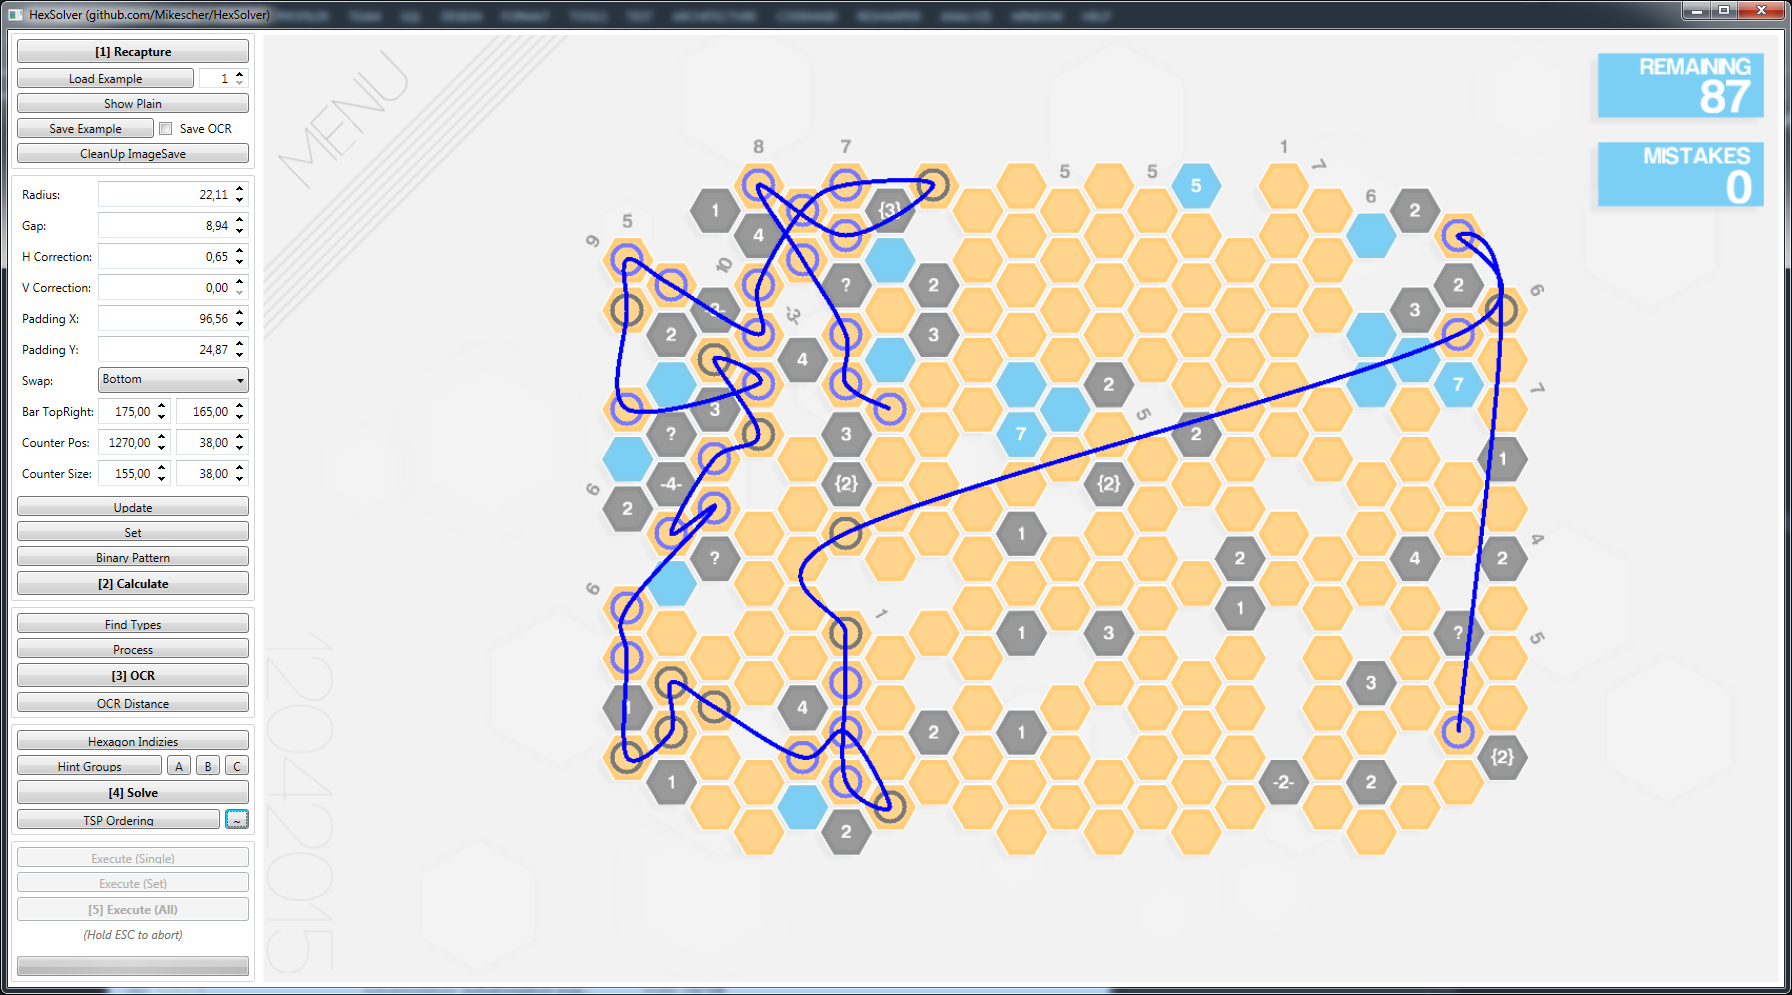
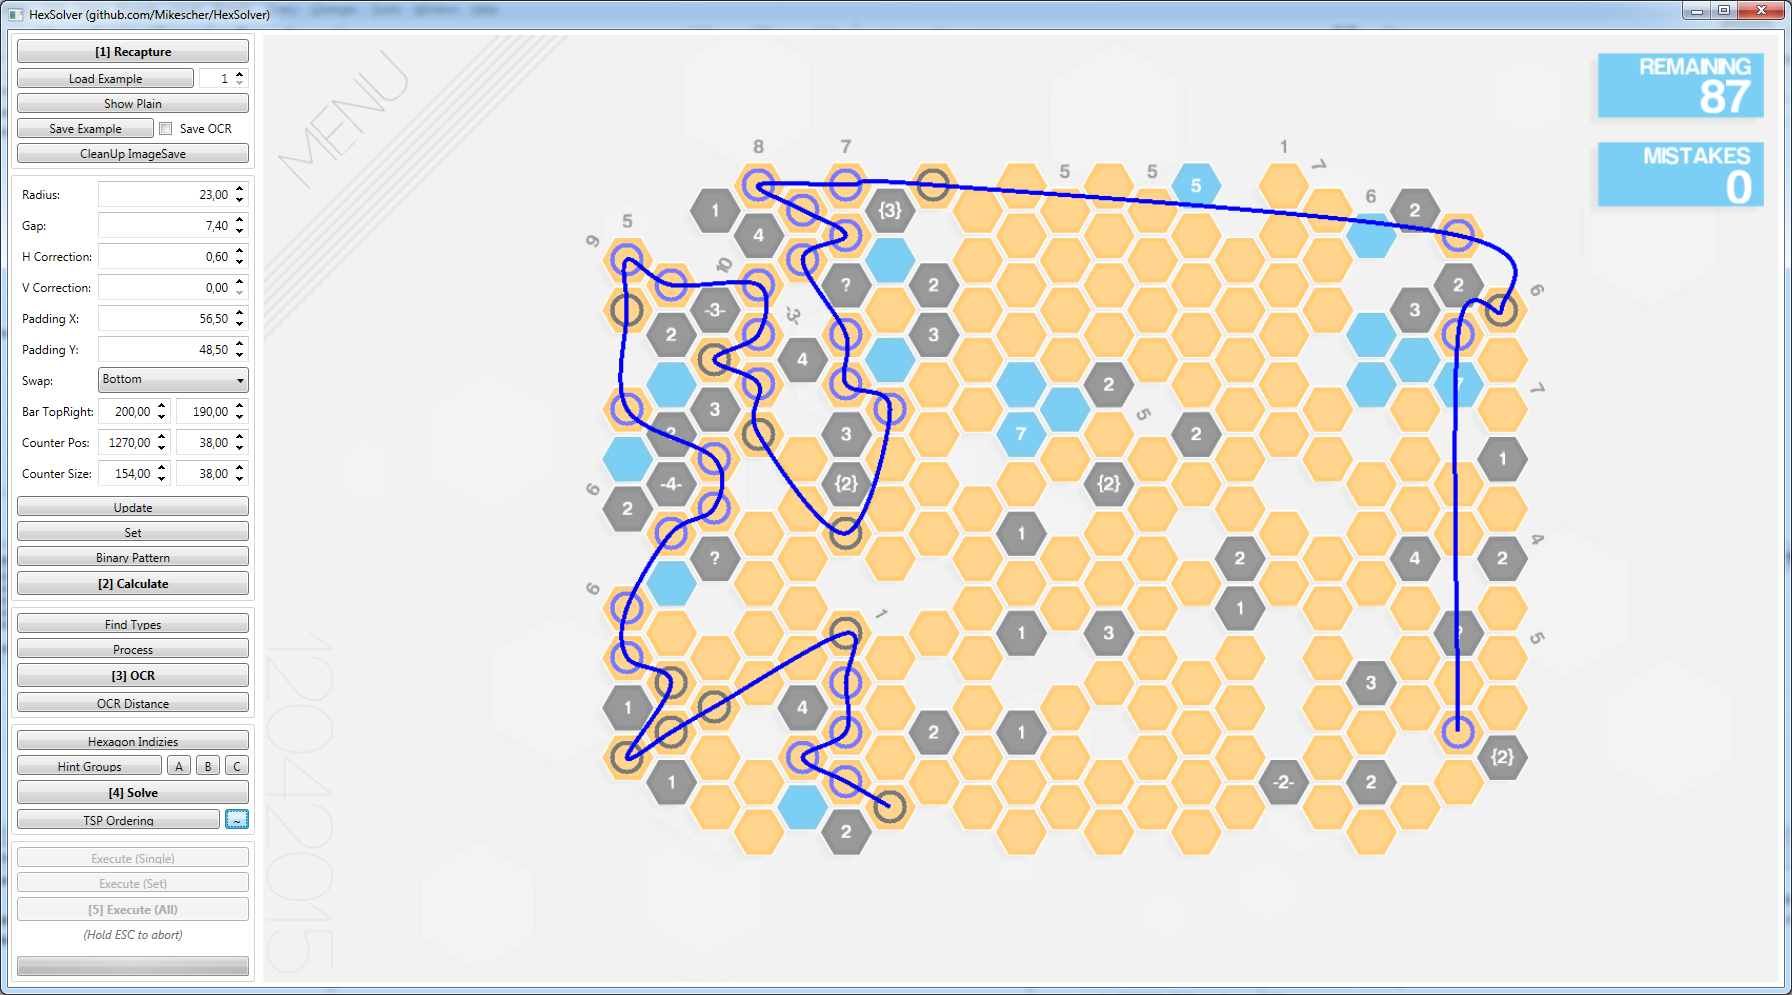
More README

diff --git a/README.md b/README.md
@@ -5,6 +5,38 @@ An automatic solver for [Hexcells](http://www.matthewbrowngames.com/hexcells.htm
 The idea is to automatically parse the game state, find the next (valid) step and execute it.  
 *(Rinse and Repeat until everything is solved)*
 
+####[> Animation](http://gfycat.com/GrotesqueRecklessAcornbarnacle)
+
+##Usage
+
+ - Start HexCells Infinite *(should also work with the other Hexcell games)*
+ - I recommend window-mode with 1440x900 resolution (for the OCR to work best)
+ - Load a level
+ - Start HexSolver
+ - Press **Recapture**
+ - If you want to completely solve the level press **Execute (All)**
+ - Don't manually move your mouse until finished (press ESC to abort)
+ - If you just want to see the next step press **Solve** (Can take around 5-10 seconds)
+
+##Troubleshooting
+
+ - HexSolver needs an minimum amount of orange cells to recognize the layout
+ - HexSolver only works when all cells are in an uniform grid (click **Calculate** to see the grid)
+ - Only click Recapture when the fading in effect is finished - otherwise no cells can be recognized
+ - If you find the (uncommon) case of two row-hint in one cell, HexSolver will fail *<sup>(sorry)</sup>*
+ - If HexSolver fails to solve a configuration or the OCR module fails, please send me an <u>full-resolution</u> screenshot of the game.
+
+##Features
+
+ - Automatic finding of game window and capturing of its graphical output
+ - Dynamically finding the hexagon layout
+ - With an custom crafted OCR module recognition of the cell values
+ - 3-Step solving of the current configuration (tested on the original levels and many of the generated ones)
+ - Finding the optimal execution path by solving the corresponding [TSP](http://en.wikipedia.org/wiki/Travelling_salesman_problem)
+ - Automatic execution by programmatically moving the mouse
+
+##HexSolvers internal steps
+
 ###Step 1 - Capture
 
 ![Shot1](https://raw.githubusercontent.com/Mikescher/HexSolver/master/README-FILES/shot1.png)
@@ -49,4 +81,4 @@ The idea is to automatically parse the game state, find the next (valid) step an
 
 ###Step 7 - Solution Executing
 
-> **NOT IMPLEMENTED**
+####[>>> Animation <<<](http://gfycat.com/GrotesqueRecklessAcornbarnacle)
